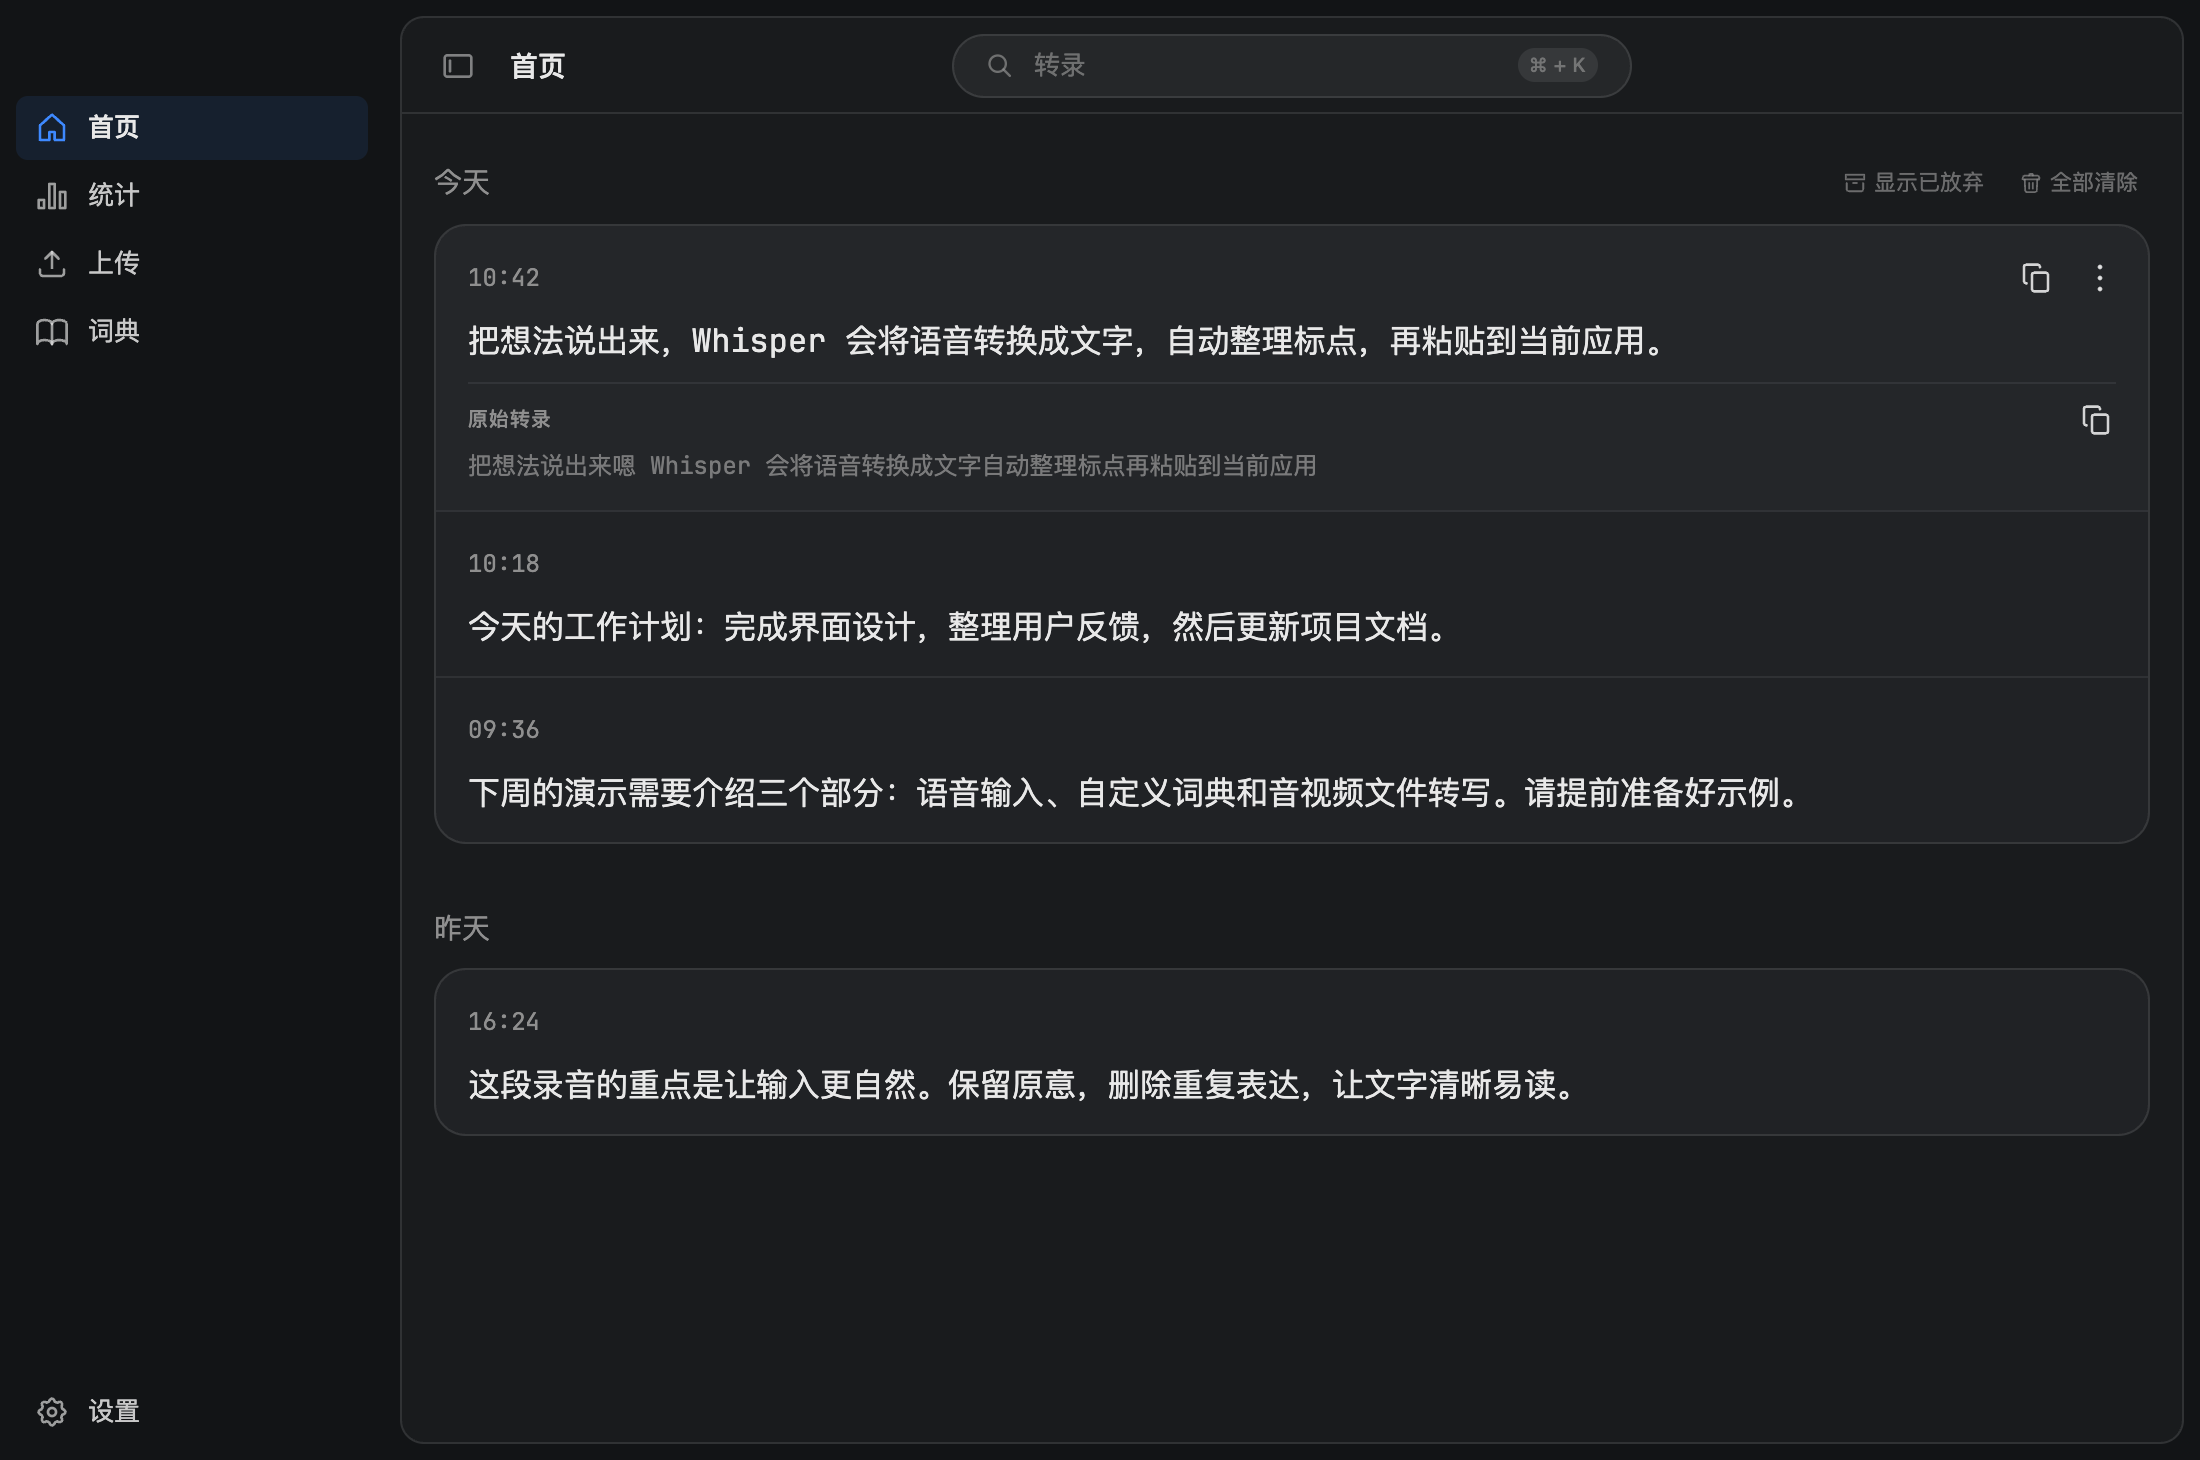
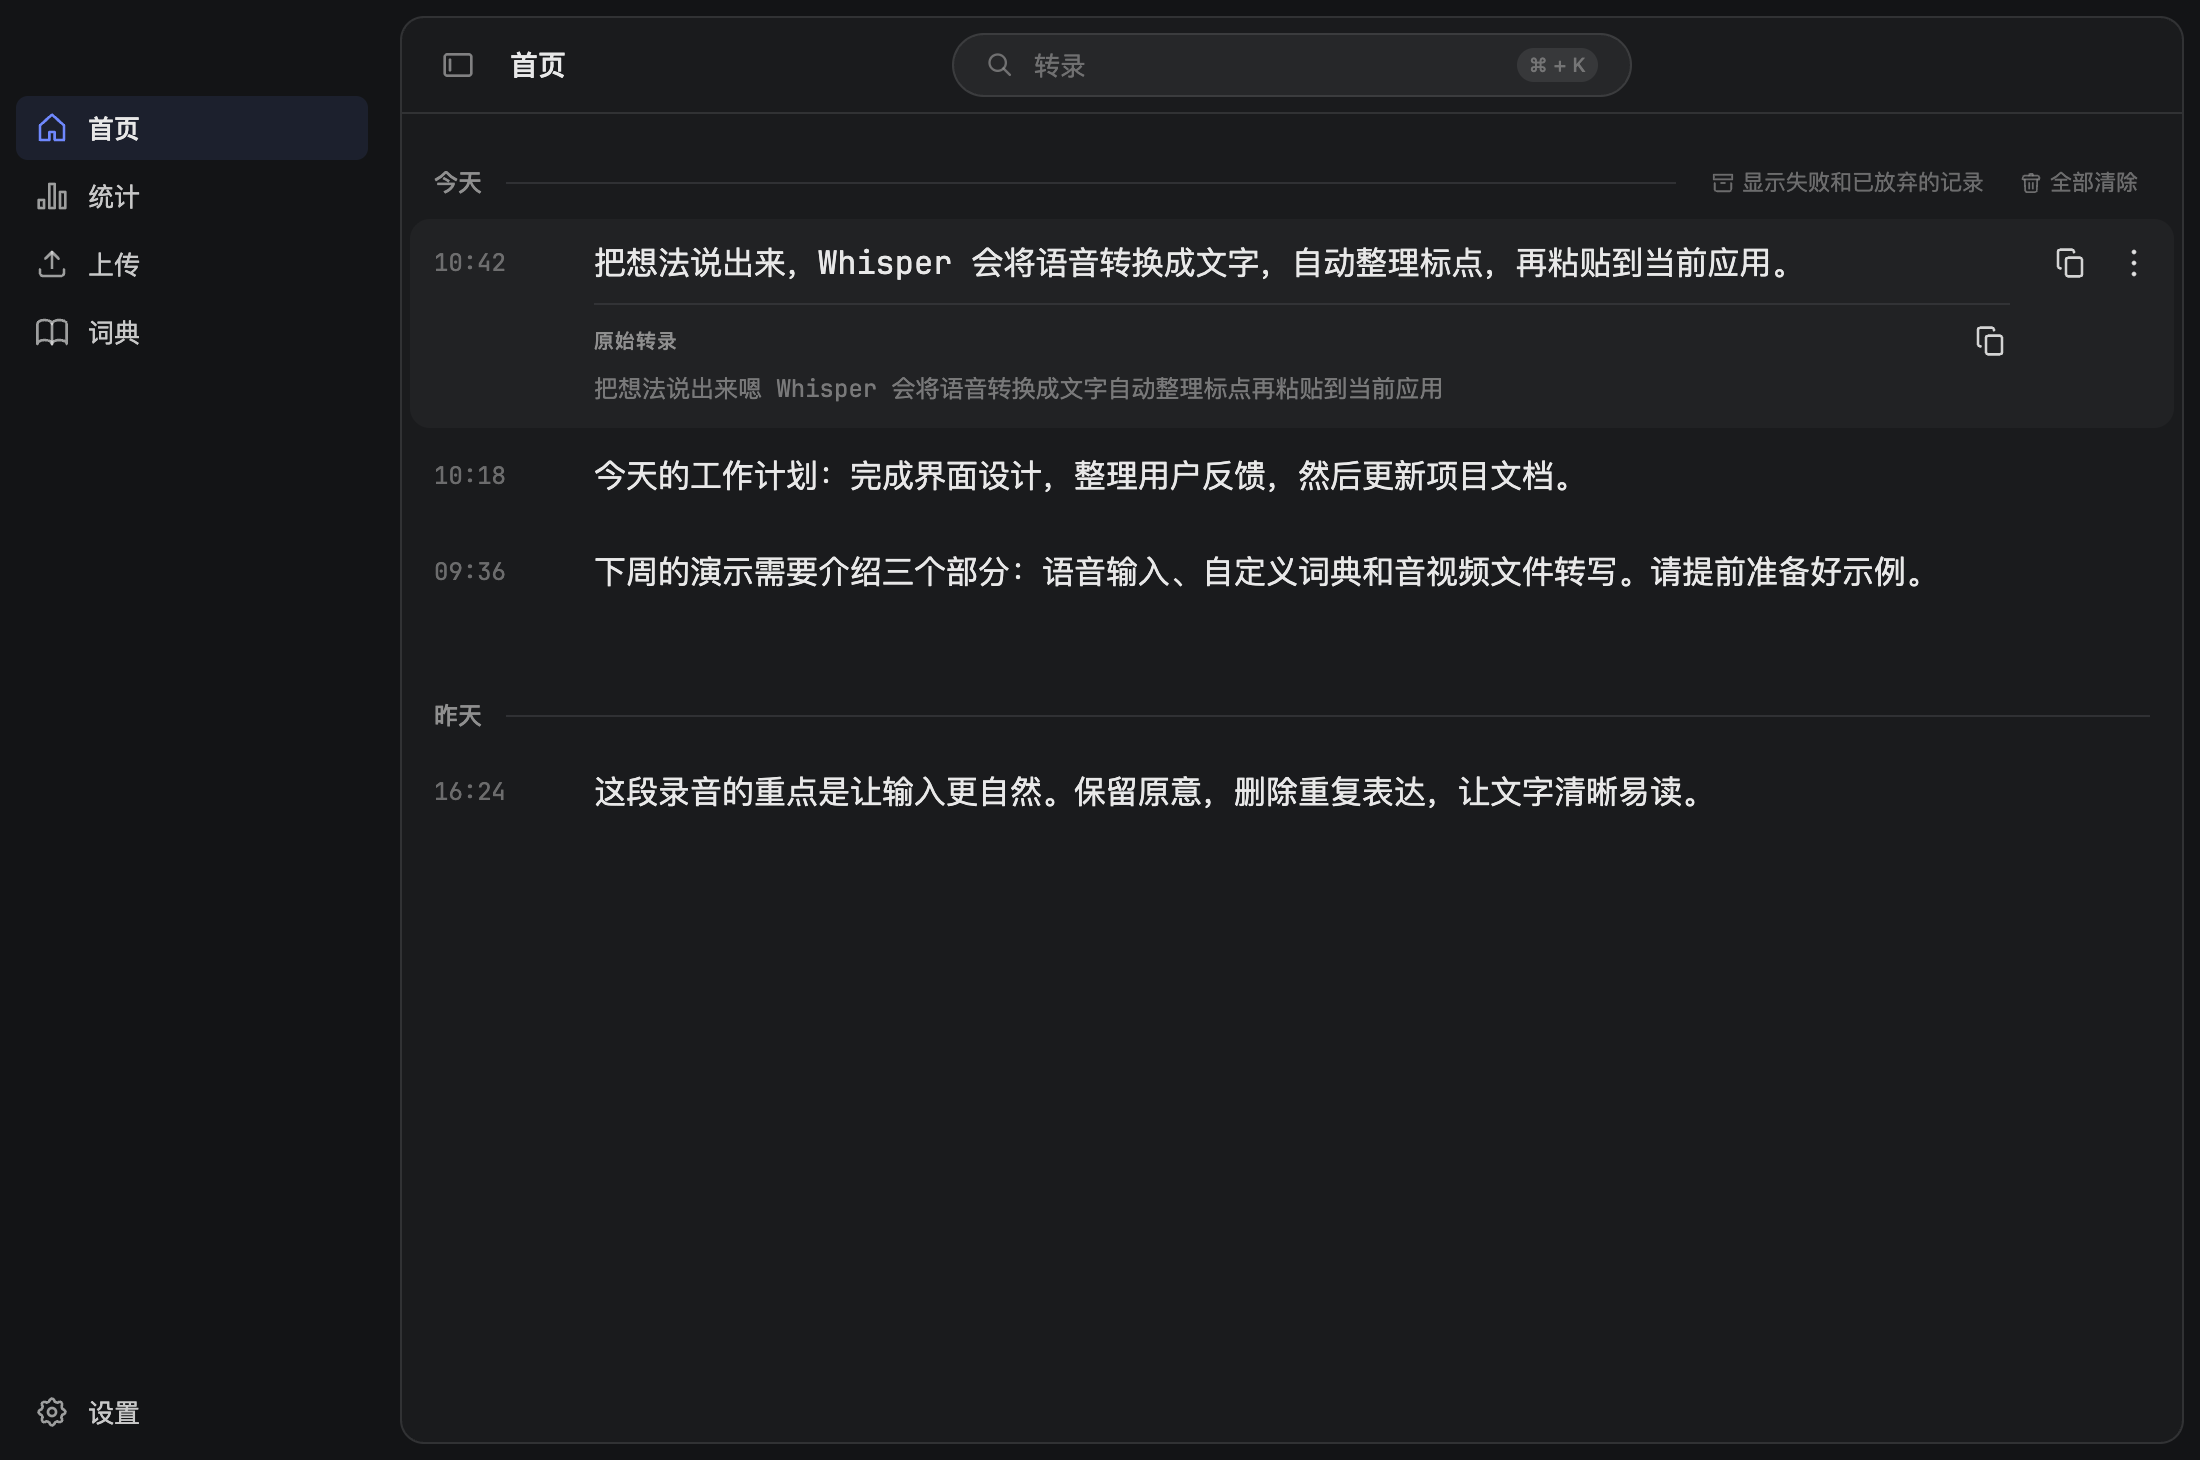
docs: sync README with hotkey activation modes and new History layout (#72)

diff --git a/README.md b/README.md
@@ -19,7 +19,7 @@ The interface above uses sample data.
 
 ## Features
 
-- Dictate with a global shortcut: hold it while you speak, or double-tap it for hands-free dictation. Shortcuts such as Command+C on the same key do not start dictation. Includes a recording pill, microphone selection, and automatic paste.
+- Dictate with a global shortcut: double-tap it for hands-free dictation, or switch to Hold mode and hold it while you speak. Shortcuts such as Command+C on the same key do not start dictation. Includes a recording pill, microphone selection, and automatic paste.
 - Connect self-hosted speech recognition and text cleanup services, with editable cleanup prompts.
 - Keep a custom dictionary, learn from corrections, and expand spoken shortcuts with Snippets.
 - Search, copy, delete, and retry local History entries, with configurable audio retention.
@@ -51,7 +51,7 @@ Releases use a persistent self-signed certificate and are not notarized. macOS m
 
 1. Open **Settings → Speech-to-Text** and enter your ASR server URL and model. The server must support an OpenAI-compatible `/audio/transcriptions` endpoint. Include `/v1` in the URL if your server requires it.
 2. Configure your text cleanup server and prompt in **Settings → Text cleanup**. It uses `/v1/chat/completions`.
-3. Grant microphone access for recording and Accessibility access for automatic paste. Choose your shortcut in **Settings → Hotkeys**.
+3. Grant microphone access for recording and Accessibility access for automatic paste. Choose your shortcut and activation mode in **Settings → Hotkeys**.
 4. Focus a text field and use the shortcut to dictate. To transcribe existing files, open **Upload**.
 
 Upload uses the same ASR settings and saves raw transcripts to History. It skips text cleanup and Snippets, does not retain source audio, and does not count toward Insights. Results remain copyable when History is disabled.

diff --git a/README.zh-CN.md b/README.zh-CN.md
@@ -19,7 +19,7 @@
 
 ## 功能
 
-- 通过全局快捷键听写：按住说话，或双击进入免提听写。用同一个键按 Command+C 等组合键不会触发听写。支持录音悬浮条、麦克风选择和自动粘贴。
+- 通过全局快捷键听写：双击进入免提听写，也可切换为按住模式，按住说话。用同一个键按 Command+C 等组合键不会触发听写。支持录音悬浮条、麦克风选择和自动粘贴。
 - 连接自建语音识别和文本整理服务，自定义整理提示词。
 - 维护个人词典、学习文字纠正，用语音短语展开文本片段。
 - 搜索、复制、删除和重试本地历史记录，设置录音保留期限。
@@ -51,7 +51,7 @@ brew upgrade --cask softmaxe/tap/whisper
 
 1. 打开「设置 → 语音转文字」，填写 ASR 服务地址和模型名称。服务需支持 OpenAI 兼容的 `/audio/transcriptions` 接口；如果服务要求 `/v1` 前缀，请在地址中保留。
 2. 在「设置 → 文本整理」中配置整理服务和提示词，使用 `/v1/chat/completions` 接口。
-3. 授予麦克风权限以录音，授予辅助功能权限以自动粘贴。在「设置 → 快捷键」中选择听写快捷键。
+3. 授予麦克风权限以录音，授予辅助功能权限以自动粘贴。在「设置 → 快捷键」中选择听写快捷键和激活模式。
 4. 将光标放到输入框，使用快捷键开始听写。转录已有文件时，打开「上传」。
 
 上传使用相同的 ASR 配置，将原始转录保存到历史记录，不进行文本整理或片段展开，不保留源音频，也不计入听写统计。关闭历史记录后，仍可复制上传结果。
